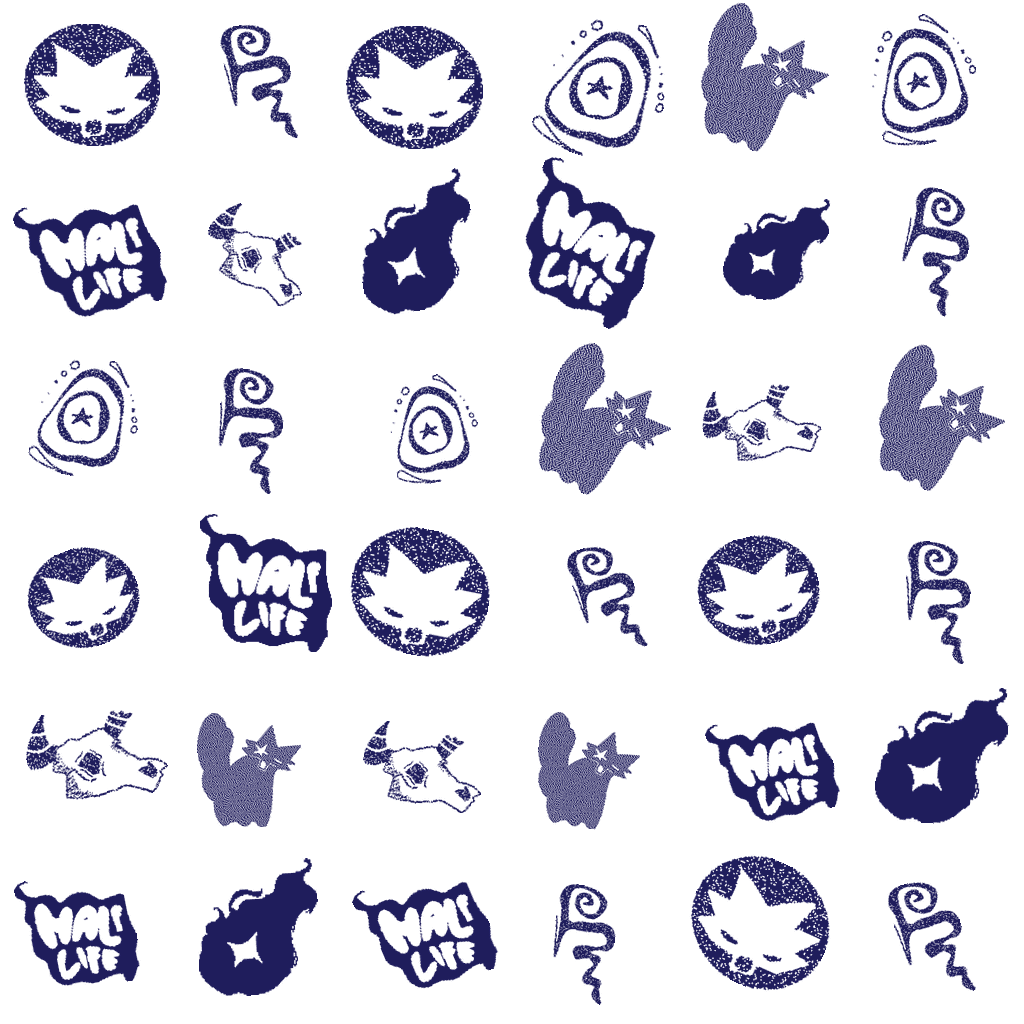
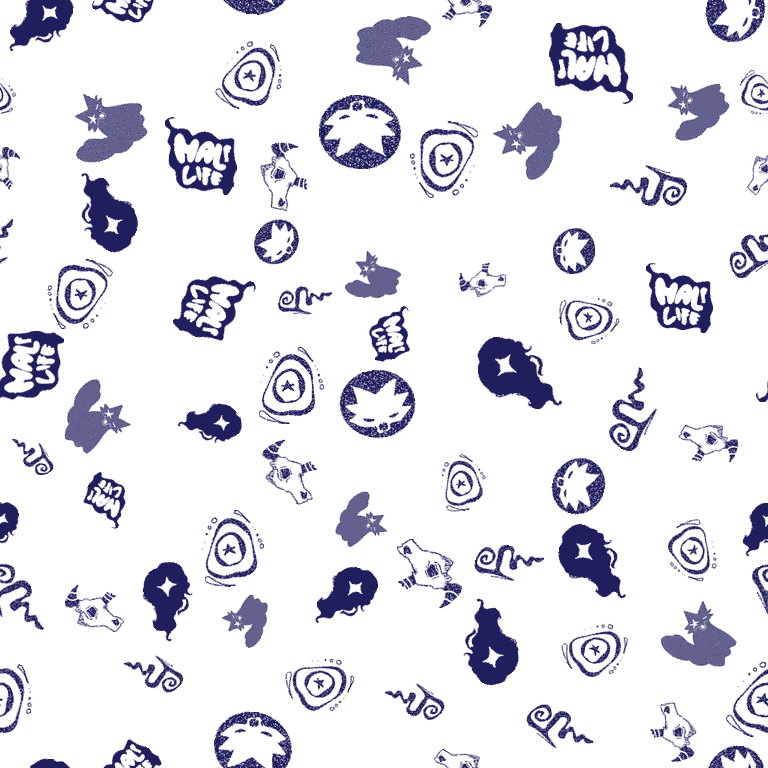
Script to construct doodle sheet from background assets

diff --git a/scripts/make-doodle-sheet.py b/scripts/make-doodle-sheet.py
@@ -1,0 +1,138 @@
+#!/usr/bin/env python3
+"""
+Bake the platform's muted doodle background into a seamless tile.
+
+Source drawings live in `background assets/` (7 hand-drawn PNGs, each a single
+black drawing on a 2000x2000 transparent canvas). This script crops each to its
+drawing, recolours the linework to the platform ink (navy), and scatters many
+small copies of them across a tile with Poisson-disc spacing tuned to each
+drawing's own rotated size — so the result is dense and natural, with no dust
+settling in a visible grid and nothing colliding through its neighbour. Edges
+wrap (each drawing is stamped on all nine tiled positions) so the sheet repeats
+seamlessly, and no two of the same drawing are ever placed within SAME_MAX of
+each other.
+
+Output: `public/platform/doodle-sheet.png` (1024x1024, indexed palette),
+referenced by `.shell-backdrop::before` in `src/app/(platform)/globals.css`.
+
+Run from the repository root:
+
+    python3 scripts/make-doodle-sheet.py
+
+Requires Pillow. Tuning knobs live at the top of this file: N_SYMBOLS, the
+size range in `targets`, the radius factor, SAME_MAX, and SEED.
+"""
+
+import glob
+import math
+import os
+import random
+
+from PIL import Image
+
+SRC = glob.glob("background assets/*.png")
+OUT = "public/platform/doodle-sheet.png"
+NAVY = (28, 26, 89)  # --color-navy
+TILE = 768  # tile edge, power of two for clean scaling
+N_SYMBOLS = 64
+SAME_MAX = 120  # two of the same drawing keep this toroidal distance (px)
+SEED = 20261003
+random.seed(SEED)
+
+
+def tor_dist(a, b):
+    """Toroidal distance on the tile, so placement wraps cleanly at the seam."""
+    dx = abs(a[0] - b[0])
+    dy = abs(a[1] - b[1])
+    return math.hypot(min(dx, TILE - dx), min(dy, TILE - dy))
+
+
+def load_symbol(path):
+    im = Image.open(path).convert("RGBA")
+    alpha = im.split()[3]
+    # Trim the transparent margin tight: the drawings sit in 2000x2000 canvases
+    # with a lot of empty border, and a faint alias halo can inflate the edge a
+    # few pixels further. Cut to the pixels that actually carry ink.
+    mask = alpha.point(lambda a: 255 if a >= 16 else 0)
+    bbox = mask.getbbox()
+    if not bbox:
+        raise RuntimeError(f"empty symbol: {path}")
+    im = im.crop(bbox)
+    # Recolour the black linework to the ink colour, keeping the alpha.
+    alpha = im.split()[3]
+    ink = Image.new("RGBA", im.size, (*NAVY, 0))
+    ink.putalpha(alpha)
+    return ink
+
+
+def main():
+    symbols = [load_symbol(p) for p in sorted(SRC)]
+    print(f"{len(symbols)} symbols loaded")
+
+    # Random target size and rotation for each marker up front, so spacing can
+    # be tuned to the drawing that will actually sit there.
+    targets = [random.uniform(45, 85) for _ in range(N_SYMBOLS)]
+    angles = [random.uniform(-180, 180) for _ in range(N_SYMBOLS)]
+    # A circle roughly covering the rotated bounding box; the 0.8 factor allows
+    # a thin near-touch without letting icons grind through each other.
+    radii = [0.5 * t * math.sqrt(2) * 0.8 for t in targets]
+
+    # Poisson-disc placement; each candidate must clear its own and the placed
+    # marker's radius. If the tile cannot be filled, the clearance relaxes.
+    points = []
+    factor = 1.0
+    attempts = 0
+    while len(points) < N_SYMBOLS and factor >= 0.45:
+        attempts += 1
+        if attempts > 300_000:
+            factor *= 0.92
+            attempts = 0
+        p = (random.uniform(0, TILE), random.uniform(0, TILE))
+        mine = radii[len(points)] * factor
+        if all(tor_dist(p, q) >= mine + r for q, r in zip(points, radii)):
+            points.append(p)
+    print(f"placed {len(points)} points (clearance factor {factor:.2f})")
+
+    # Choose a drawing per point, never one that already sits within SAME_MAX.
+    assigned = []
+    for p in points:
+        used = {s for (q, s) in zip(points, assigned) if tor_dist(p, q) < SAME_MAX}
+        options = [i for i in range(len(symbols)) if i not in used]
+        assigned.append(random.choice(options) if options else random.randrange(len(symbols)))
+
+    # Separation rule, checked outright: same drawings keep apart on the torus.
+    for i in range(len(points)):
+        for j in range(i + 1, len(points)):
+            if assigned[i] == assigned[j] and tor_dist(points[i], points[j]) < SAME_MAX:
+                raise RuntimeError(f"same symbol too close at {i},{j}")
+    print("same-symbol separation OK")
+
+    # Draw onto a 3x3 tiling, then crop the centre tile so seams wrap cleanly.
+    canvas = Image.new("RGBA", (TILE * 3, TILE * 3), (0, 0, 0, 0))
+    for (cx, cy), idx, target, angle in zip(points, assigned, targets, angles):
+        sym = symbols[idx]
+        scale = target / max(sym.size)
+        size = (max(1, round(sym.width * scale)), max(1, round(sym.height * scale)))
+        sym = sym.resize(size, Image.LANCZOS)
+        # Full-circle rotation: drawings land at every angle.
+        sym = sym.rotate(angle, resample=Image.BICUBIC, expand=True)
+        for i in (-1, 0, 1):
+            for j in (-1, 0, 1):
+                px = round(cx + i * TILE - sym.width / 2 + TILE)
+                py = round(cy + j * TILE - sym.height / 2 + TILE)
+                canvas.alpha_composite(sym, (px, py))
+
+    tile = canvas.crop((TILE, TILE, TILE * 2, TILE * 2))
+
+    os.makedirs(os.path.dirname(OUT), exist_ok=True)
+    # Indexed palette keeps the RGBA look at a fraction of the bytes.
+    tile.convert("P", palette=Image.ADAPTIVE, colors=256).save(OUT, optimize=True)
+
+    data = tile.getdata()
+    n = len(data)
+    ink_px = sum(1 for p in data if p[3] > 0)
+    print(f"wrote {OUT}  {tile.size}  ink coverage {100 * ink_px / n:.2f}%")
+
+
+if __name__ == "__main__":
+    main()
